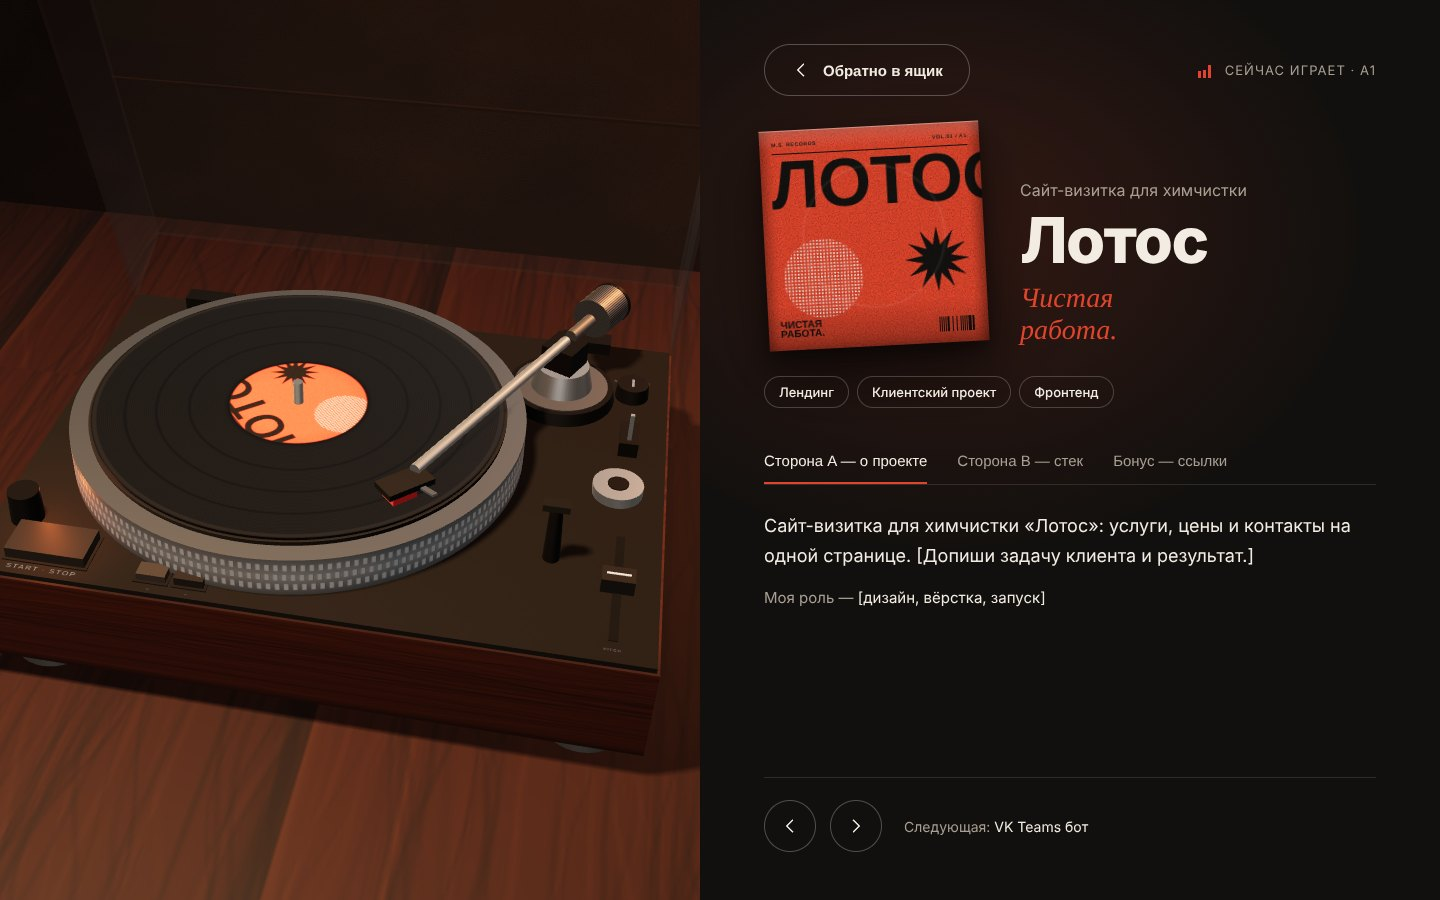
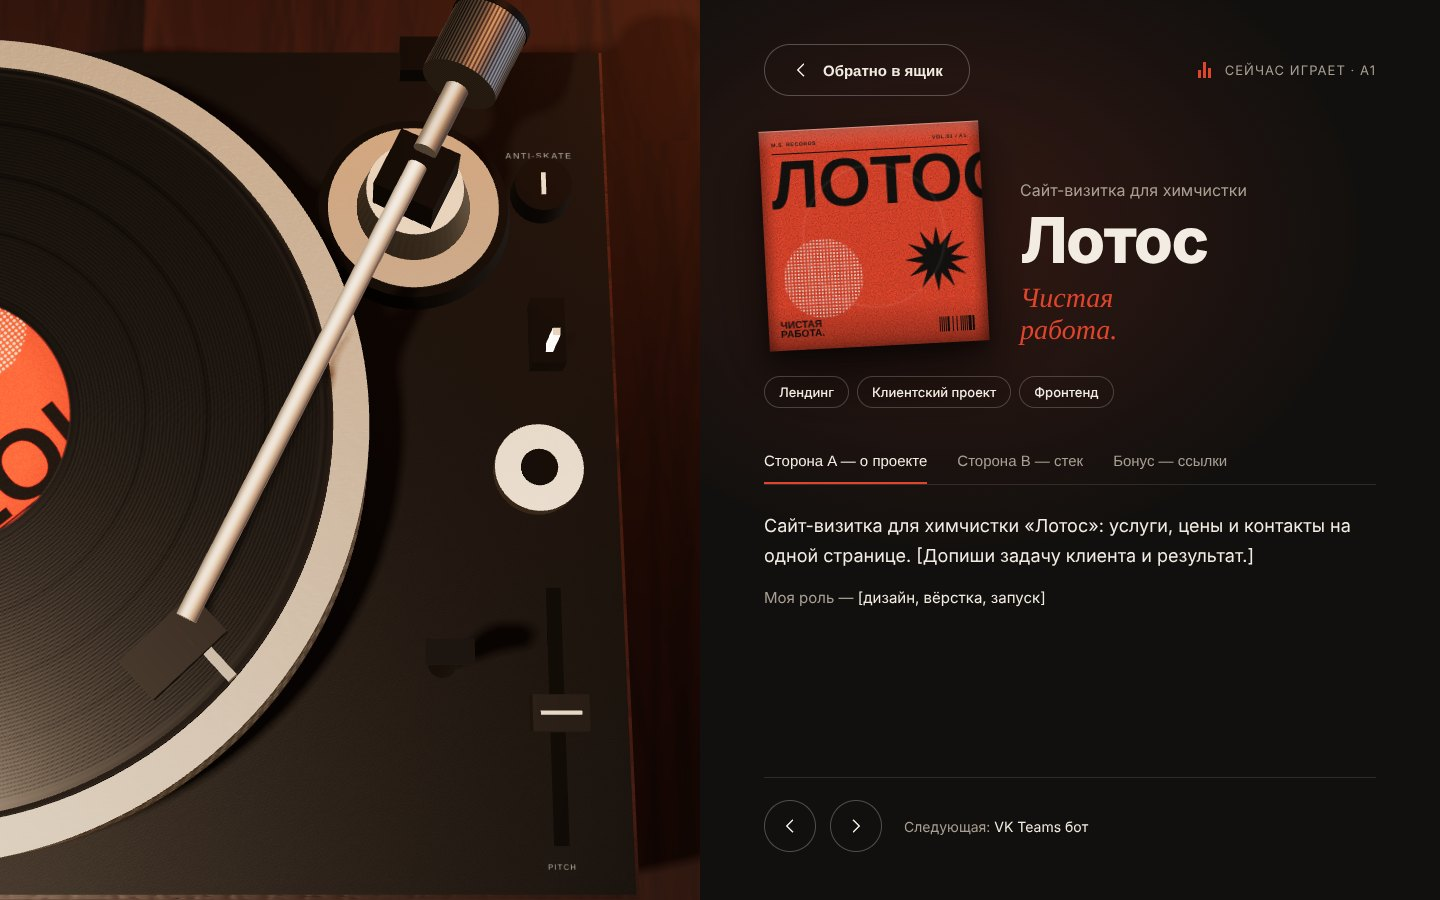
Проигрыватель: снова вид сверху с половиной пластинки, качественные материалы
- Возвращён ракурс концепции: платтер у левого края, видна половина пластинки
- HDRI-окружение (CC0, Poly Haven) — настоящие отражения в металле и виниле
- CC0-карты нормалей: шлифованный алюминий, порошковая краска, резина, дерево
- Алюминий с анизотропным бликом вместо пересвеченного хрома
- Винил в 2048 px, крышка убрана, камера ближе — корпус заполняет колонку

Changed region(s): [[0.0, 0.0, 0.5, 1.0], [0.375, 0.7778, 0.4062, 0.8089]]

diff --git a/src/three/Player3D.tsx b/src/three/Player3D.tsx
@@ -3,6 +3,13 @@ import type { ThreeEvent } from '@react-three/fiber';
 import { Canvas, useFrame, useThree } from '@react-three/fiber';
 import * as THREE from 'three';
 import { RoomEnvironment } from 'three/examples/jsm/environments/RoomEnvironment.js';
+import { EXRLoader } from 'three/examples/jsm/loaders/EXRLoader.js';
+// CC0-ассеты (Poly Haven через @pmndrs/assets): HDRI-окружение и карты нормалей.
+import hdri from '@pmndrs/assets/hdri/apartment.exr';
+import nBrushed from '@pmndrs/assets/normals/0004.webp';
+import nPowder from '@pmndrs/assets/normals/0021.webp';
+import nRubber from '@pmndrs/assets/normals/0018.webp';
+import nWood from '@pmndrs/assets/normals/0019.webp';
 import type { Project } from '../data/projects';
 import { drawCover } from './drawCover';
 import { decalTexture, plankTexture, plasterTexture, rng, toTexture, vinylRoughness, vinylTexture } from './textures';
@@ -172,11 +179,22 @@ function Lights() {
   const key = useRef<THREE.SpotLight>(null);
   const { scene, gl } = useThree();
   useEffect(() => {
+    // Сначала процедурная комната, затем настоящее HDRI-окружение — от него честные отражения в металле и виниле.
     const pmrem = new THREE.PMREMGenerator(gl);
-    const env = pmrem.fromScene(new RoomEnvironment(), 0.04).texture;
-    scene.environment = env;
-    scene.environmentIntensity = 0.22;
-    return () => { env.dispose(); pmrem.dispose(); };
+    const room = pmrem.fromScene(new RoomEnvironment(), 0.04).texture;
+    scene.environment = room;
+    scene.environmentIntensity = 0.3;
+    let hdr: THREE.Texture | null = null;
+    let alive = true;
+    new EXRLoader().load(hdri, (tex) => {
+      if (!alive) { tex.dispose(); return; }
+      tex.mapping = THREE.EquirectangularReflectionMapping;
+      hdr = tex;
+      scene.environment = tex;
+      scene.environmentIntensity = 0.24;
+      scene.environmentRotation.set(0, 1.2, 0);
+    });
+    return () => { alive = false; room.dispose(); hdr?.dispose(); pmrem.dispose(); };
   }, [gl, scene]);
   useEffect(() => {
     if (!key.current) return;
@@ -187,12 +205,12 @@ function Lights() {
     <>
       <spotLight
         ref={key}
-        position={[-0.35, 1.25, 0.45]}
-        angle={0.55}
-        penumbra={0.9}
+        position={[-0.45, 0.95, 0.35]}
+        angle={0.6}
+        penumbra={0.85}
         decay={2}
-        intensity={14}
-        color="#ffcb98"
+        intensity={5.5}
+        color="#ffe0c2"
         castShadow
         shadow-mapSize={[2048, 2048]}
         shadow-bias={-0.0003}
@@ -201,7 +219,7 @@ function Lights() {
         shadow-blurSamples={16}
       />
       <pointLight position={[0.55, 0.45, -0.55]} intensity={0.9} color="#ff9a52" decay={2} />
-      <hemisphereLight args={['#ffd8b0', '#140a04', 0.12]} />
+      <hemisphereLight args={['#ffd8b0', '#140a04', 0.2]} />
     </>
   );
 }
@@ -239,21 +257,39 @@ function Turntable({ project, code, leaving, onMotor }: Props) {
   const mat = useMemo(() => rubberMat(), []);
   const knurlTex = useMemo(() => knurl(), []);
   const cover = useMemo(() => drawCover(project, code, 1024), [project, code]);
-  const vinyl = useMemo(() => vinylTexture(cover), [cover]);
+  const vinyl = useMemo(() => vinylTexture(cover, undefined, 2048), [cover]);
   const vRough = useMemo(() => vinylRoughness(), []);
 
-  // Материалы: сатинированный алюминий вместо зеркального хрома — так металл читается как металл.
-  const alu = useMemo(() => new THREE.MeshStandardMaterial({ color: '#c9c9c7', metalness: 1, roughness: 0.38 }), []);
-  const aluDark = useMemo(() => new THREE.MeshStandardMaterial({ color: '#8b8a88', metalness: 1, roughness: 0.45 }), []);
-  const blackMetal = useMemo(() => new THREE.MeshStandardMaterial({ color: '#1c1b1a', metalness: 0.5, roughness: 0.5 }), []);
+  const normals = useMemo(() => {
+    const load = (url: string, rx: number, ry: number) => {
+      const t = new THREE.TextureLoader().load(url);
+      t.wrapS = t.wrapT = THREE.RepeatWrapping;
+      t.repeat.set(rx, ry);
+      t.anisotropy = 16;
+      return t;
+    };
+    return {
+      brushed: load(nBrushed, 6, 1.5),
+      brushedFine: load(nBrushed, 3, 0.4),
+      powder: load(nPowder, 7, 7),
+      rubber: load(nRubber, 10, 10),
+      wood: load(nWood, 1, 4),
+    };
+  }, []);
+
+  // Материалы: сатинированный (шлифованный) алюминий с анизотропным бликом, матовая порошковая краска, резина.
+
+  const alu = useMemo(() => new THREE.MeshPhysicalMaterial({ color: '#9c9c9a', metalness: 1, roughness: 0.42, anisotropy: 0.6, normalMap: normals.brushedFine, normalScale: new THREE.Vector2(0.12, 0.12) }), [normals]);
+  const aluDark = useMemo(() => new THREE.MeshPhysicalMaterial({ color: '#7a7977', metalness: 1, roughness: 0.45, anisotropy: 0.5, normalMap: normals.brushedFine, normalScale: new THREE.Vector2(0.1, 0.1) }), [normals]);
+  const blackMetal = useMemo(() => new THREE.MeshStandardMaterial({ color: '#1b1a19', metalness: 0.55, roughness: 0.48, normalMap: normals.powder, normalScale: new THREE.Vector2(0.25, 0.25) }), [normals]);
   const plastic = useMemo(() => new THREE.MeshStandardMaterial({ color: '#141312', metalness: 0, roughness: 0.6 }), []);
-  const rubber = useMemo(() => new THREE.MeshStandardMaterial({ color: '#0d0d0d', roughness: 0.95 }), []);
+  const rubber = useMemo(() => new THREE.MeshStandardMaterial({ color: '#0d0d0d', roughness: 0.92, normalMap: normals.rubber, normalScale: new THREE.Vector2(0.3, 0.3) }), [normals]);
   const platterMats = useMemo(() => [
-    new THREE.MeshStandardMaterial({ map: strobe, metalness: 0.9, roughness: 0.4 }),
-    new THREE.MeshStandardMaterial({ color: '#9c9c9a', metalness: 1, roughness: 0.4 }),
+    new THREE.MeshStandardMaterial({ map: strobe, metalness: 0.9, roughness: 0.32 }),
+    new THREE.MeshPhysicalMaterial({ color: '#7c7c7a', metalness: 1, roughness: 0.42, anisotropy: 0.7, normalMap: normals.brushed, normalScale: new THREE.Vector2(0.1, 0.1) }),
     new THREE.MeshStandardMaterial({ color: '#777', metalness: 1, roughness: 0.5 }),
-  ], [strobe]);
-  const matMats = useMemo(() => [rubber, new THREE.MeshStandardMaterial({ map: mat, roughness: 0.95 }), rubber], [mat, rubber]);
+  ], [strobe, normals]);
+  const matMats = useMemo(() => [rubber, new THREE.MeshStandardMaterial({ map: mat, roughness: 0.9, normalMap: normals.rubber, normalScale: new THREE.Vector2(0.35, 0.35) }), rubber], [mat, rubber, normals]);
   const recordMats = useMemo(() => {
     const { cv, ctx } = canvas(256, 256);
     ctx.fillStyle = '#fff'; ctx.fillRect(0, 0, 256, 256);
@@ -264,10 +300,6 @@ function Turntable({ project, code, leaving, onMotor }: Props) {
     });
     return [new THREE.MeshStandardMaterial({ color: '#0e0e0e', roughness: 0.35 }), face, face];
   }, [vinyl, vRough]);
-  const lidMat = useMemo(() => new THREE.MeshPhysicalMaterial({
-    color: '#3a2e26', transparent: true, opacity: 0.2, roughness: 0.04, metalness: 0, clearcoat: 1, side: THREE.DoubleSide, depthWrite: false,
-  }), []);
-  const lidEdge = useMemo(() => new THREE.MeshPhysicalMaterial({ color: '#2a201a', transparent: true, opacity: 0.55, roughness: 0.1 }), []);
 
   const record = useRef<THREE.Group>(null);
   const spin = useRef<THREE.Group>(null);
@@ -359,11 +391,11 @@ function Turntable({ project, code, leaving, onMotor }: Props) {
       {/* Корпус: ореховый плинт на демпфирующих ножках, сверху матовая чёрная панель */}
       <mesh position={[BODY_CX, -BODY.h / 2 - 0.004, 0]} castShadow receiveShadow>
         <boxGeometry args={[BODY_W, BODY.h, BODY_D]} />
-        <meshStandardMaterial map={walnut} color="#6e4c33" roughness={0.55} />
+        <meshStandardMaterial map={walnut} color="#6e4c33" roughness={0.5} normalMap={normals.wood} normalScale={new THREE.Vector2(0.35, 0.35)} />
       </mesh>
       <mesh position={[BODY_CX, -0.002, 0]} receiveShadow>
         <boxGeometry args={[BODY_W - 0.004, 0.004, BODY_D - 0.004]} />
-        <meshStandardMaterial map={black} color="#9a9a9a" roughness={0.8} metalness={0.1} />
+        <meshStandardMaterial map={black} color="#8a8a8a" roughness={0.62} metalness={0.2} normalMap={normals.powder} normalScale={new THREE.Vector2(0.35, 0.35)} />
       </mesh>
       {[[BODY.x0 + 0.04, BODY.z0 + 0.04], [BODY.x1 - 0.04, BODY.z0 + 0.04], [BODY.x0 + 0.04, BODY.z1 - 0.04], [BODY.x1 - 0.04, BODY.z1 - 0.04]].map(([x, z], i) => (
         <group key={i} position={[x, -BODY.h - 0.004, z]}>
@@ -521,23 +553,6 @@ function Turntable({ project, code, leaving, onMotor }: Props) {
       <Engrave text="ANTI-SKATE" x={0.24} z={-0.128} w={0.034} />
       <Engrave text="M.S. · SL-01  DIRECT DRIVE" x={-0.06} z={-0.17} w={0.11} />
 
-      {/* Пылезащитная крышка — открыта, дымчатый акрил */}
-      <group position={[BODY_CX, 0.0, BODY.z0 + 0.004]} rotation-x={-1.22}>
-        <mesh position={[0, 0.072, BODY_D / 2]} material={lidMat}>
-          <boxGeometry args={[BODY_W, 0.003, BODY_D]} />
-        </mesh>
-        {[-1, 1].map((sx) => (
-          <mesh key={sx} position={[(sx * BODY_W) / 2, 0.036, BODY_D / 2]} material={lidMat}>
-            <boxGeometry args={[0.003, 0.072, BODY_D]} />
-          </mesh>
-        ))}
-        <mesh position={[0, 0.036, BODY_D]} material={lidMat}>
-          <boxGeometry args={[BODY_W, 0.072, 0.003]} />
-        </mesh>
-        <mesh position={[0, 0.0725, BODY_D / 2]} material={lidEdge}>
-          <boxGeometry args={[BODY_W + 0.002, 0.0015, 0.003]} />
-        </mesh>
-      </group>
       {[BODY.x0 + 0.07, BODY.x1 - 0.07].map((x) => (
         <mesh key={x} position={[x, 0.004, BODY.z0 + 0.008]} castShadow material={blackMetal}>
           <boxGeometry args={[0.04, 0.012, 0.016]} />
@@ -547,15 +562,15 @@ function Turntable({ project, code, leaving, onMotor }: Props) {
   );
 }
 
-/** 3D-проигрыватель в ракурсе 3/4, на тумбе в той же тёплой комнате. */
+/** 3D-проигрыватель сверху: половина пластинки у левого края, тонарм и органы управления справа. */
 export default function Player3D(props: Props) {
   return (
     <Canvas
       className="player3d"
       shadows={{ type: THREE.VSMShadowMap }}
-      dpr={[1, 1.75]}
-      camera={{ position: [0.16, 0.6, 0.78], fov: 38, near: 0.01, far: 6 }}
-      onCreated={({ camera }) => camera.lookAt(0.015, -0.03, -0.03)}
+      dpr={[1, 2]}
+      camera={{ position: [0.16, 0.56, 0.14], fov: 36, near: 0.01, far: 6 }}
+      onCreated={({ camera }) => camera.lookAt(0.16, 0, 0.005)}
       gl={{ antialias: true, toneMapping: THREE.ACESFilmicToneMapping, toneMappingExposure: 1.0 }}
     >
       <color attach="background" args={['#0d0907']} />

diff --git a/src/three/textures.ts b/src/three/textures.ts
@@ -160,16 +160,17 @@ export function plasterBump() {
 }
 
 /** Лицевая сторона винила: бороздки, межтрековые паузы, этикетка с обложкой. */
-export function vinylTexture(cover: HTMLCanvasElement | null, labelColor = '#E0452C') {
-  const S = 1024, C = S / 2;
+export function vinylTexture(cover: HTMLCanvasElement | null, labelColor = '#E0452C', S = 1024) {
+  const C = S / 2;
+  const k = S / 1024;
   const { cv, ctx } = canvas(S, S);
   ctx.fillStyle = '#0b0b0b';
   ctx.beginPath(); ctx.arc(C, C, C, 0, Math.PI * 2); ctx.fill();
-  for (let r = C * 0.36; r < C * 0.975; r += 1.6) {
+  for (let r = C * 0.36; r < C * 0.975; r += 1.6 * Math.max(1, k * 0.6)) {
     const t = r / C;
     const gap = [0.53, 0.69, 0.84].some((g) => Math.abs(t - g) < 0.006);
     ctx.strokeStyle = gap ? '#050505' : (Math.floor(r / 1.6) % 2 ? '#141414' : '#0e0e0e');
-    ctx.lineWidth = gap ? 2.4 : 1;
+    ctx.lineWidth = gap ? 2.4 * k : Math.max(1, k * 0.8);
     ctx.beginPath(); ctx.arc(C, C, r, 0, Math.PI * 2); ctx.stroke();
   }
   // Гладкий бортик

diff --git a/src/assets.d.ts b/src/assets.d.ts
@@ -1,0 +1,8 @@
+declare module '@pmndrs/assets/hdri/*.exr' {
+  const src: string;
+  export default src;
+}
+declare module '@pmndrs/assets/normals/*.webp' {
+  const src: string;
+  export default src;
+}

diff --git a/ROADMAP.md b/ROADMAP.md
@@ -38,7 +38,8 @@
 - [x] Полировка проигрывателя: ореховая боковина, гравировки (33/45, ANTI-SKATE, PITCH), петли крышки, блик лампы на виниле, матовая этикетка
 - [x] Плавные переходы: камера провожает пластинку, растворение/проявление сцен, перетекание текста при переборе
 - [x] README со скриншотами и описанием
-- [x] Проигрыватель переделан под реализм: ракурс 3/4, ореховый корпус на ножках, матовая панель, сатинированный алюминий, резиновый мат, открытая дымчатая крышка, стробоскопическая лампа, тумба в комнате
+- [x] Проигрыватель: вид сверху, половина пластинки у левого края (как в концепции); ореховый корпус, матовая порошковая панель, шлифованный алюминий с анизотропным бликом, резиновый мат, стробоскопическая лампа
+- [x] Реальное HDRI-окружение и CC0-карты нормалей (Poly Haven через @pmndrs/assets) — честные отражения и микрорельеф вместо «мыла»; винил в 2048 px
 - [x] Рабочие кнопки START·STOP и 33/45 (статус «Сейчас играет / Пауза» в карточке)
 - [ ] Один общий 3D-мир вместо двух экранов (полёт камеры от ящика к проигрывателю)
 

diff --git a/README.md b/README.md
@@ -30,7 +30,7 @@
 
 - **Vite + React + TypeScript**
 - **three.js + React Three Fiber** — ящик, пластинки и проигрыватель в настоящем 3D: физический свет, мягкие тени, лак на конвертах и виниле, хром тонарма
-- **Ни одного внешнего ассета:** текстуры дерева, паркета, штукатурки, винила и все обложки рисуются на canvas при загрузке
+- **Текстуры:** дерево, паркет, штукатурка, винил и все обложки рисуются на canvas при загрузке; для проигрывателя — CC0 HDRI-окружение и карты нормалей Poly Haven из пакета [`@pmndrs/assets`](https://github.com/pmndrs/assets)
 - Без WebGL автоматически включается CSS-версия сцены (её можно открыть и вручную: `?css` в адресе)
 - Деплой на **GitHub Pages** через GitHub Actions при каждом пуше в `main`
 
